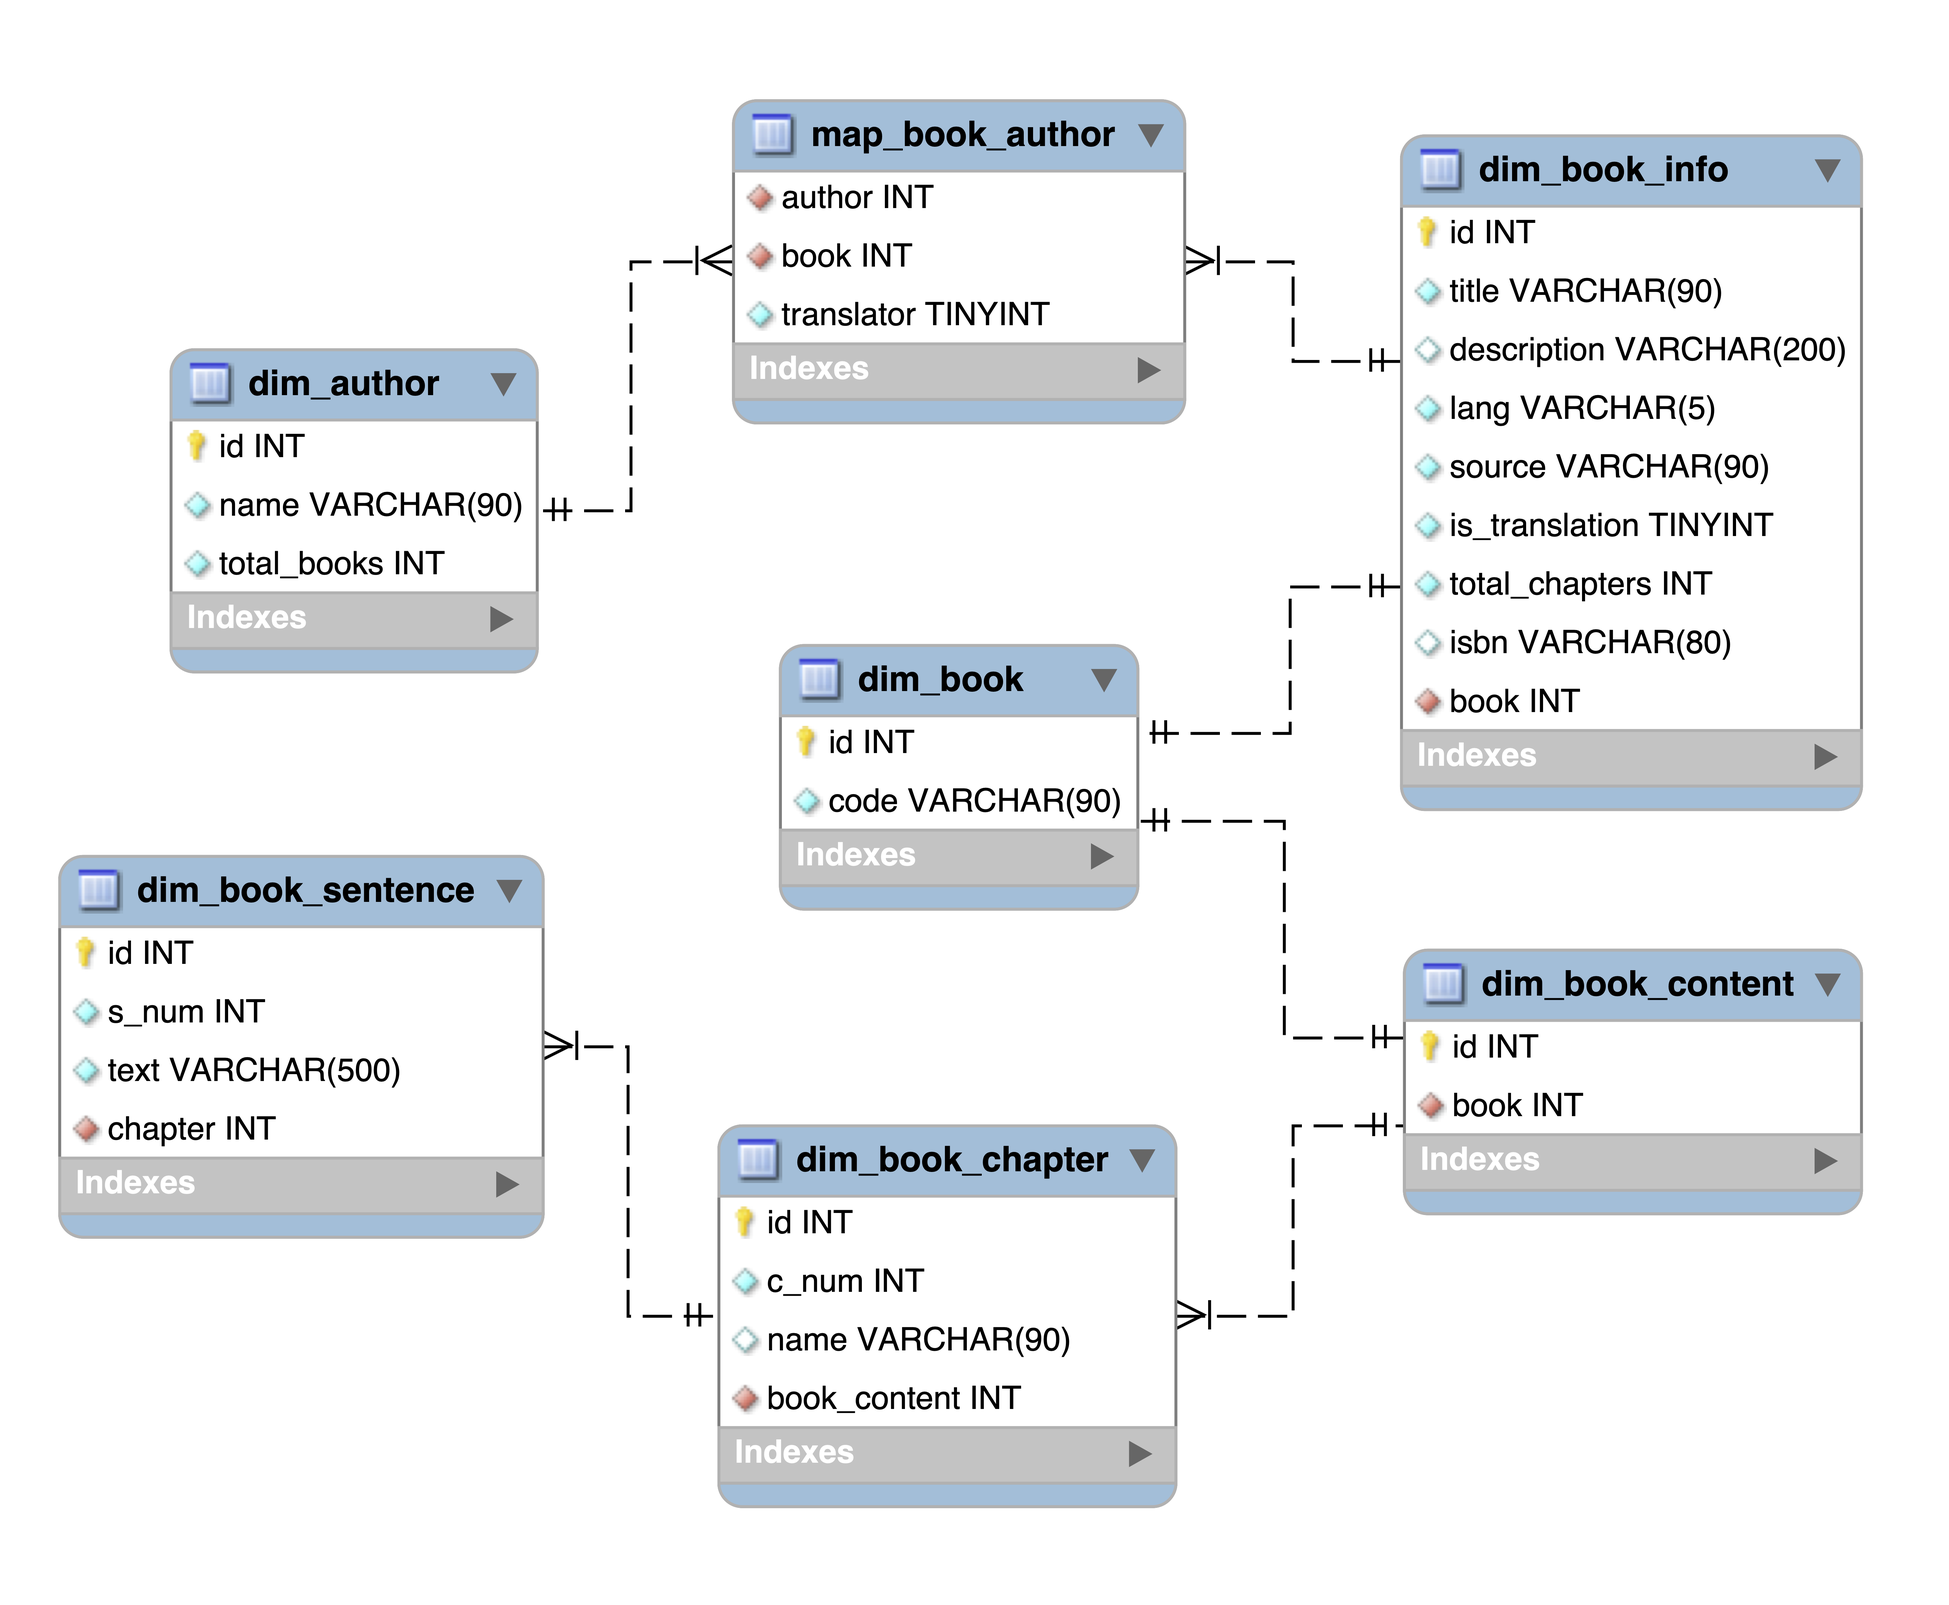
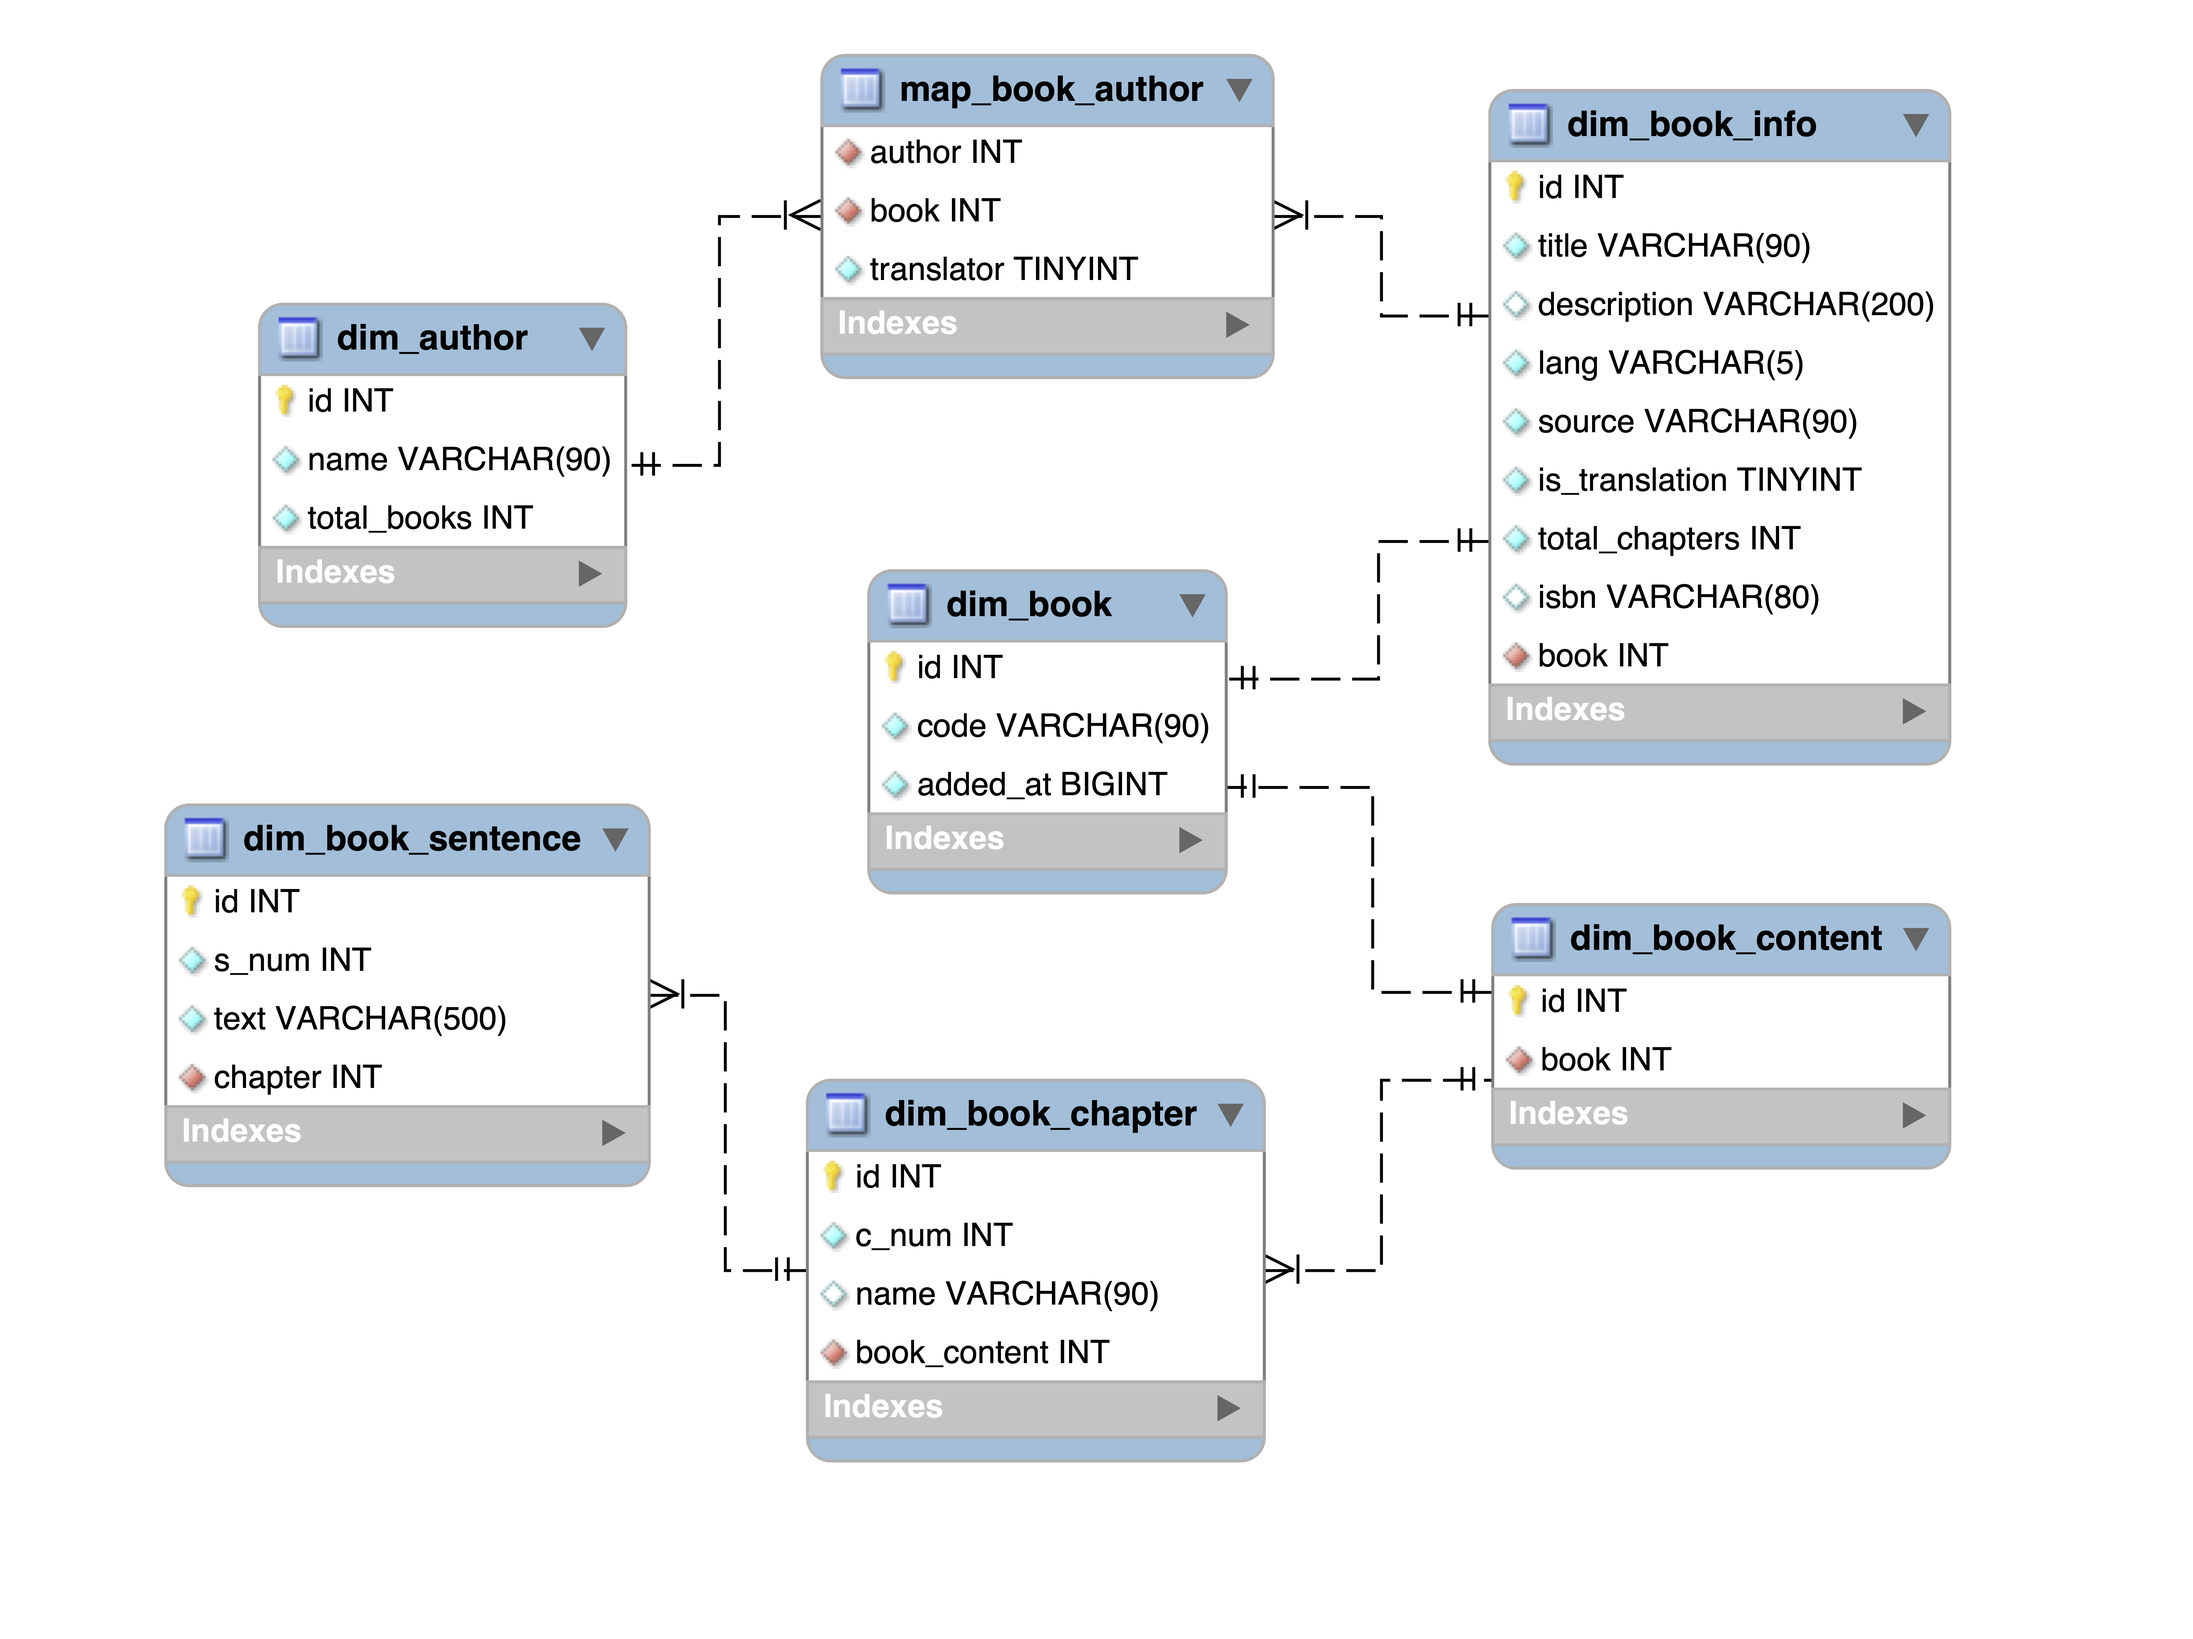
DB Schema Updated, XML Read File Added, DB Connection code added

diff --git a/xml_parser/create_xml.py b/xml_parser/create_xml.py
@@ -48,38 +48,45 @@ def create_xml_file(book_dict, book_metadata):
         chapter.set('num', str(key))
         for idx, val in enumerate(book_dict[key]):
             sentence = ET.SubElement(chapter, 'sentence')
-            sentence.set('id', str(idx + 1))
+            sentence.set('num', str(idx + 1))
             sentence.text = val
 
     # tree = ET.ElementTree(book_root)
     # tree.write(filename)
     root_dir = os.path.dirname(os.path.dirname(__file__))
     output_dir = os.path.join(root_dir, "xml_files")
-    filename = book_root.get('id') + "_" + lang.text + ".xml"
+    filename = book_root.get('code') + "_" + lang.text + ".xml"
     file = open(output_dir + '/' + filename, 'w')
     file_path = file.name
     print('XML File Path :: ', file_path)
     file.write(prettify(book_root))
     file.close()
     json_obj = {}
-    json_obj['book_id'] = book_root.get('id')
+    bbok_code = book_root.get('code')
     json_obj['xml_file'] = filename
     json_obj['lang'] = lang.text
     json_obj['xml_file_path'] = file_path
     json_obj['is_validated'] = False
     json_obj['is_saved_to_db'] = False
-    add_xml_book_data_to_json(json_obj)
+    add_xml_book_data_to_json(bbok_code, json_obj)
 
 
-def add_xml_book_data_to_json(json_obj):
+def add_xml_book_data_to_json(book_code, json_obj):
     json_file_path = Path('json/books.json')
 
     json_file = open(json_file_path, 'r')
     json_data = json.load(json_file)
     json_file.close()
 
+    books = json_data['books']
+    if book_code in books.keys():
+        books[book_code].append(json_obj)
+    else:
+        books[book_code] = [json_obj]
+
+    json_data['books'] = books
+
     json_file = open(json_file_path, 'w')
-    json_data['books'].append(json_obj)
     json_file.write(json.dumps(json_data, indent=4))
     json_file.close()
 

diff --git a/xml_parser/read_xml.py b/xml_parser/read_xml.py
@@ -1,0 +1,42 @@
+import xml.etree.ElementTree as ET
+
+
+def parse_xml_file(full_path):
+
+    book_dict = {}
+
+    tree = ET.parse(full_path)
+    book_root = tree.getroot()
+    # print('Root Element :: ', book_root.tag, ' | Attributes :: ', book_root.attrib)
+    book_dict['code'] = book_root.attrib['code']
+
+    book_info_dict = {}
+    book_content_dict = {}
+    book_info_element = book_root.find('bookInfo')
+    book_content_element = book_root.find('content')
+
+    book_info_dict['authors'] = []
+    for child in book_info_element:
+        if 'author' == child.tag:
+            author = {'name': child.text}
+            if 'translator' in child.attrib:
+                author['translator'] = child.attrib['translator']
+            book_info_dict['authors'].append(author)
+        else:
+            book_info_dict[child.tag] = child.text
+
+    book_dict['bookInfo'] = book_info_dict
+
+    book_content_dict['chapters'] = []
+    for chapter in book_content_element:
+        chapter_dict = {'num': chapter.attrib['num']}
+        if 'name' in chapter.attrib:
+            chapter_dict['name'] = chapter.attrib['name']
+        chapter_dict['sentences'] = {}
+        for sentence in chapter.findall('sentence'):
+            chapter_dict['sentences'][sentence.attrib['num']] = sentence.text
+        book_content_dict['chapters'].append(chapter_dict)
+
+    book_dict['content'] = book_content_dict
+
+    return book_dict

diff --git a/db/read_config.py b/db/read_config.py
@@ -1,0 +1,28 @@
+from configparser import ConfigParser
+import os
+
+
+def read_db_config(filename, section):
+    """ Read database configuration file and return a dictionary object
+        :param filename: name of the configuration file
+        :param section: section of database configuration
+        :return: a dictionary of database parameters
+    """
+
+    parser = ConfigParser()
+    parser.read(filename)
+
+    db = {}
+    if parser.has_section(section):
+        items = parser.items(section)
+        for item in items:
+            db[item[0]] = item[1]
+    else:
+        raise Exception('{0} not found in the {1} file'.format(section, filename))
+
+    try:
+        db['password'] = os.environ[db['password']]
+    except KeyError:
+        print('Please set the Environment Variable ', db['password'])
+
+    return db

diff --git a/db/mysql_connection.py b/db/mysql_connection.py
@@ -1,0 +1,23 @@
+import mysql.connector
+from mysql.connector import errorcode
+
+import db.read_config as config
+
+
+def get_new_mysql_connection():
+
+    db_config = config.read_db_config('../db_config.ini', 'mysql')
+
+    connection = None
+
+    try:
+        connection = mysql.connector.connect(**db_config)
+    except mysql.connector.Error as err:
+        if err.errno == errorcode.ER_ACCESS_DENIED_ERROR:
+            print('Invalid Database User and Password')
+        elif err.errno == errorcode.ER_BAD_DB_ERROR:
+            print('Database doesn\'t exist ')
+        else:
+            print(err)
+
+    return connection

diff --git a/xml_parser/test.py b/xml_parser/test.py
@@ -1,6 +1,11 @@
 from csv2df import get_book_content, get_book_metadata
+import xml_parser.create_xml as create_xml
+import xml_parser.read_xml as read_xml
 
-from xml_parser.create_xml import create_xml_file
+create_xml.create_xml_file(get_book_content(), get_book_metadata())
 
-create_xml_file(get_book_content(), get_book_metadata())
+
+book_dict = read_xml.parse_xml_file('/Users/pavanmandava/PythonWorkspace/bitext-aligner/xml_files/abcdef_en.xml')
+
+print(book_dict)
 

diff --git a/xml_parser/__init__.py b/xml_parser/__init__.py
@@ -3,7 +3,7 @@ import json
 
 json_file_path = Path('json/books.json')
 
-json_data = {'books': []}
+json_data = {'books': {}}
 if not json_file_path.is_file():
     json_file = open(json_file_path, 'w')
     json_file.write(json.dumps(json_data, indent=4))

diff --git a/db/test.py b/db/test.py
@@ -1,0 +1,9 @@
+import db.mysql_connection as connection
+
+conn = connection.get_new_mysql_connection()
+
+print(conn.charset)
+print('isConnected :: ', conn.is_connected())
+
+conn.close()
+
